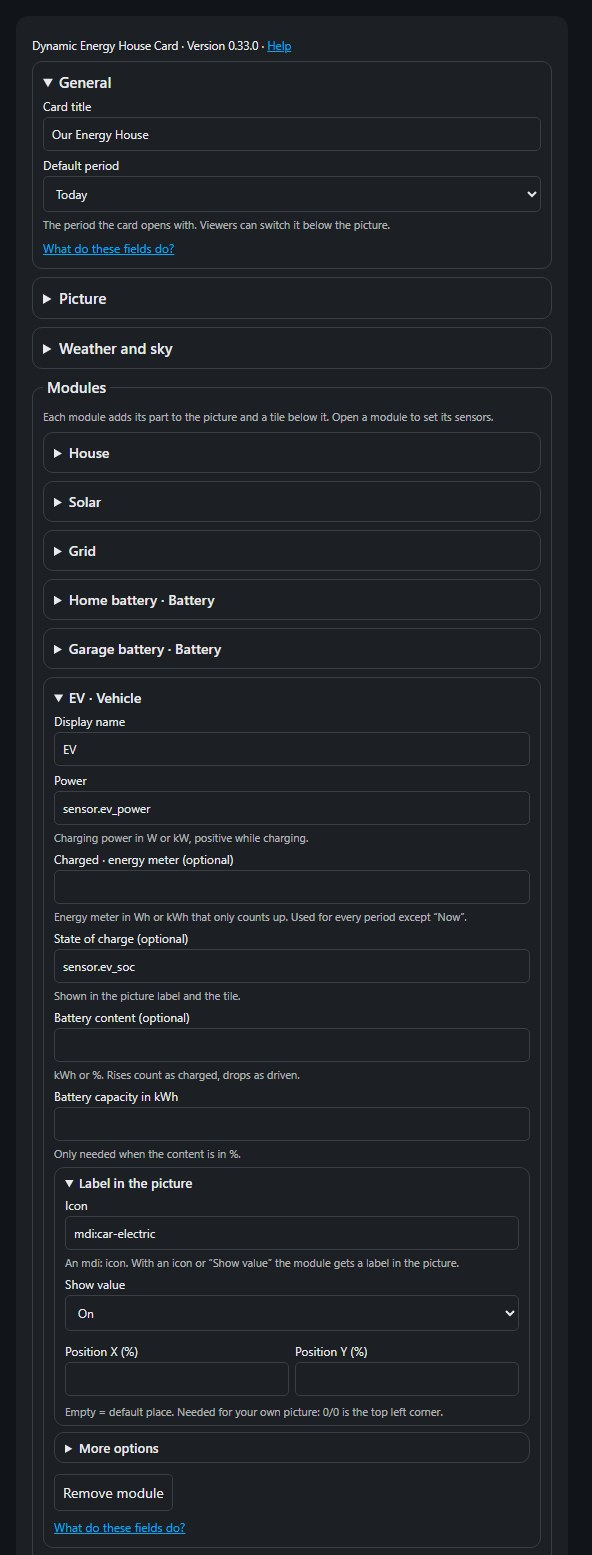
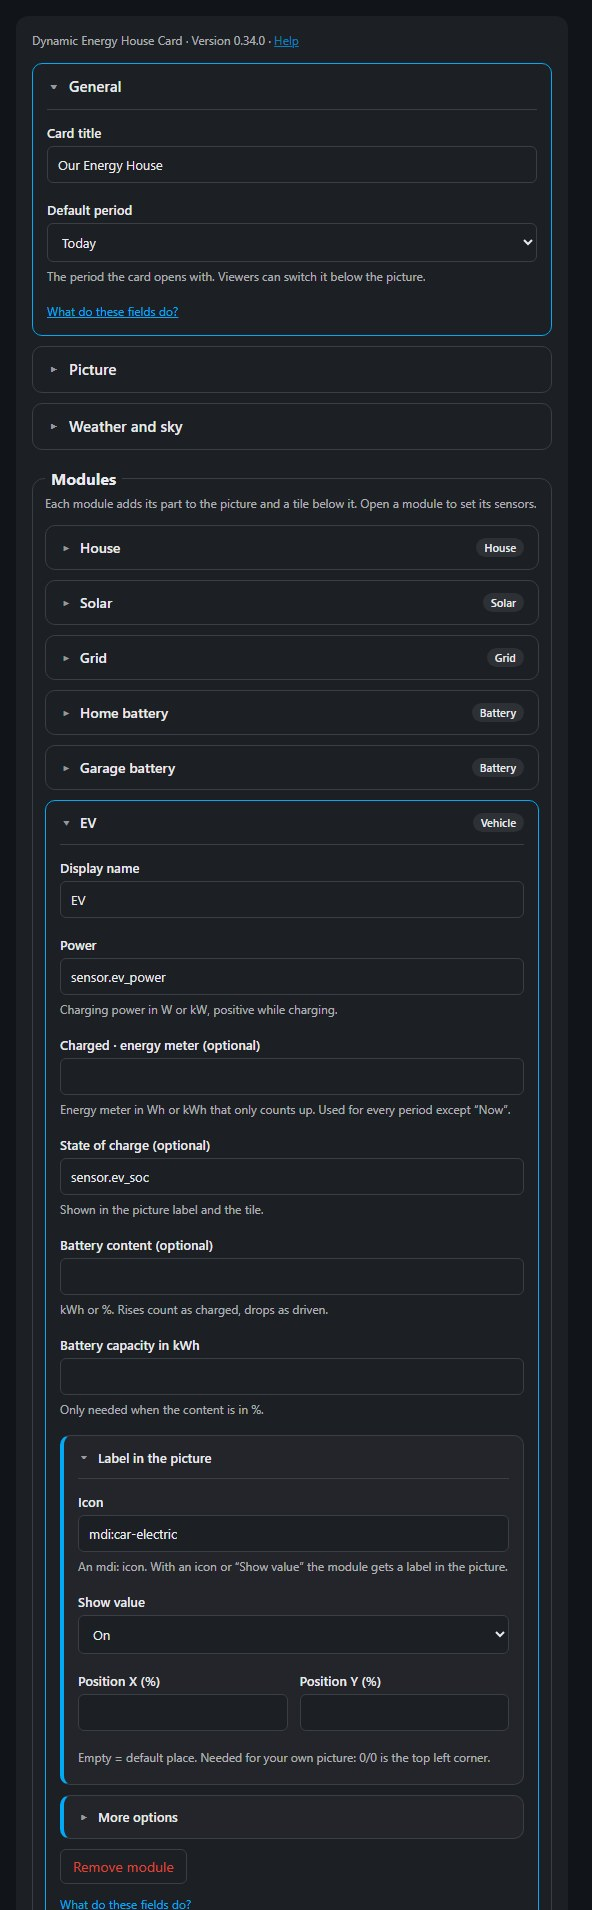
Clearer editor, room label choice, controls below the picture (0.34.0)
- Editor: more space between fields, bold field names, nested boxes
  marked by coloured edges and tints, open module highlighted, module
  type as a badge, remove buttons in red
- Rooms: one "Show in the picture" choice (nothing, room name, values,
  both) instead of icon, show value and room name
- Controls of a tapped module appear directly below the picture
  instead of at the bottom of the card

Claude-Session: https://claude.ai/code/session_016kjt6bPp7oqnfqhW3oJgZ4

diff --git a/dist/dynamic-energy-house-card.js b/dist/dynamic-energy-house-card.js
@@ -1,5 +1,5 @@
 // Energy House Card · native Home Assistant dashboard component
-const ENERGY_HOUSE_VERSION = "0.33.0";
+const ENERGY_HOUSE_VERSION = "0.34.0";
 const DOCS_URL = "https://github.com/pfalzcraft/dynamic-energy-house-card";
 const TYPES = {house:"House",grid:"Grid",pv:"Solar",battery:"Battery",ev:"Vehicle",water:"Water",room:"Room",climate:"Grid CO₂",device:"Device"};
 const COLORS = {house:"#f4bd86",grid:"#a7bbf0",pv:"#f2ce72",battery:"#80dbc2",ev:"#86cfef",water:"#93d3f5",room:"#d9c6aa",climate:"#c1d2b1",device:"#e7a9d6"};
@@ -317,8 +317,8 @@ function photoScene(c,states,history={},previousLevels={}){
       return hit(n,`<path d="M${x} ${y}v-8" stroke="white"/>`+rows.map(([k,v],i)=>`<foreignObject x="${left}" y="${top+i*34}" width="${width}" height="32"><div xmlns="http://www.w3.org/1999/xhtml" class="pinlabel" title="${k==="import"?"Import":"Export"}">${icon(k)}<span>${esc(v)}</span></div></foreignObject>`).join(""));
     }
     // Room: one row per entity, stacked; a tap on a row opens that entity's HA dialog.
-    if(n.kind==="room"&&labelled(n)&&roomEntities(n).length){
-      const ids=[n.entity,...roomEntities(n)].filter(Boolean);
+    if(n.kind==="room"&&(labelled(n)&&roomEntities(n).length||n.showRoomName==="yes")){
+      const ids=labelled(n)?[n.entity,...roomEntities(n)].filter(Boolean):[];
       const rows=ids.map(id=>{const name=entityName(n,id,states),v=id===n.entity?reading(states[id]):roomSummary({kind:"room",entities:[id]},states);
         // Without a choice the name is shown when the room has several entities.
         return [id,name,(n.showNames?.[id]??ids.length>1)?`${n.names?.[id]?name:name.slice(0,16)} ${v}`:v];});
@@ -550,7 +550,7 @@ function primaryValue(n,s,history){
 }
 
 const css=`
-.metrics{display:flex;flex-wrap:wrap;padding:12px 9px;gap:6px;background:transparent}.metric{flex:1 1 82px;min-width:0;background:transparent;border:0;text-align:left;padding:4px 7px;color:var(--primary-text-color,#f3eee4)}.metric span,.metric small{display:block;font-size:12px;color:var(--secondary-text-color,#b6c7d9)}.metric{container-type:inline-size}.metric strong{display:block;font-weight:600;font-size:clamp(14px,15cqi,26px);line-height:1.4;white-space:nowrap}.metric small b{white-space:nowrap}.bp text{fill:#8feaff;stroke:none;font:600 11px ui-monospace,monospace;letter-spacing:1.5px}.sim{display:flex;flex-wrap:wrap;gap:4px;padding:8px 12px;align-items:center;font-size:12px;color:var(--secondary-text-color,#b6c7d9)}.sim button{background:var(--secondary-background-color,#213245);border:1px solid var(--divider-color,#526579);border-radius:6px;padding:4px 8px;font-size:12px}.sim button[aria-pressed=true]{background:var(--primary-color,#d3eaf3);color:var(--text-primary-color,#142637)}.expand{width:100%;text-align:left;background:var(--secondary-background-color,#213245);border:0;padding:12px 18px;color:var(--primary-text-color,#f3eee4)}.architecture{background:transparent}.photo-pulse{animation:photoflow 1.3s linear infinite}@keyframes photoflow{to{stroke-dashoffset:-35}}:host{display:block;font-family:var(--primary-font-family,inherit)}ha-card{display:block;background:var(--ha-card-background,var(--card-background-color,#142235));color:var(--primary-text-color,#f3eee4);border-radius:var(--ha-card-border-radius,20px);overflow:hidden}header{padding:17px 18px 13px;display:flex;align-items:center;justify-content:space-between;gap:10px}h2{font-family:var(--ha-card-header-font-family,inherit);font-size:var(--ha-card-header-font-size,24px);font-weight:400;line-height:1.2;margin:0}small{color:var(--secondary-text-color,#b6c7d9);font-size:12px}svg{width:100%;display:block}svg text{fill:#342f28;font:11px system-ui}button{font:inherit;color:inherit;cursor:pointer}.hit{cursor:pointer}.hit:hover,.hit:focus{filter:brightness(1.15)}.fall,.cloud{pointer-events:none}.pulse{animation:dash 1.6s linear infinite}@keyframes dash{to{stroke-dashoffset:-37}}.fall{animation:fall 1.3s linear infinite}.cloud{animation:cloud 16s ease-in-out alternate infinite}@keyframes fall{to{transform:translate(-7px,22px)}}@keyframes cloud{to{transform:translateX(24px)}}.fx-drift{animation:fxdrift linear infinite}@keyframes fxdrift{from{transform:translateX(-320px)}to{transform:translateX(1000px)}}.fx-tile{animation:fxtile linear infinite}@keyframes fxtile{from{transform:translate(0,0)}to{transform:translate(var(--dx),var(--dy))}}.fx-twinkle{animation:fxtwinkle 4s ease-in-out infinite alternate}@keyframes fxtwinkle{to{opacity:.25}}.fx-fog{animation:fxfog 22s ease-in-out infinite alternate}@keyframes fxfog{to{transform:translateX(90px)}}.fx-flash{opacity:0;animation:fxflash 9s linear infinite}.fx-gust{animation:fxgust 1s linear infinite}@keyframes fxgust{from{transform:translateX(-160px)}to{transform:translateX(1060px)}}.fx-leaf{transform-box:fill-box;transform-origin:center;animation:fxleaf 2s linear infinite}@keyframes fxleaf{from{transform:translate(-40px,0) rotate(0)}50%{transform:translate(450px,-40px) rotate(400deg)}to{transform:translate(940px,30px) rotate(800deg)}}@keyframes fxflash{0%,92%,100%{opacity:0}93%{opacity:.75}94%{opacity:.1}95.5%{opacity:.55}97%{opacity:0}}.tiles{display:grid;grid-template-columns:repeat(auto-fit,minmax(min(145px,100%),1fr));gap:1px;background:var(--divider-color,#526579)}.tile{background:var(--secondary-background-color,#213245);text-align:left;border:0;padding:13px 14px;min-width:0}.name{display:flex;align-items:center;gap:7px;color:var(--secondary-text-color,#b6c7d9);font-size:12px;overflow-wrap:anywhere}.value{display:block;font-weight:600;margin-top:6px;font-size:14px}.info small{display:block}.info{font-size:12px;color:var(--secondary-text-color,#b6c7d9)}.sensors{padding:10px 16px;display:grid;gap:2px}.sensors .expand{padding-left:0}.sorts{display:flex;flex-wrap:wrap;gap:6px;margin:4px 0 6px}.sorts button{background:var(--secondary-background-color,#213245);color:var(--primary-text-color,#f3eee4);border:0;border-radius:12px;padding:3px 10px;font:inherit;font-size:12px;cursor:pointer}.sorts [aria-pressed=true]{background:var(--primary-color,#03a9f4);color:var(--text-primary-color,#fff)}.sensor.raised b,.sensor.raised span{color:var(--warning-color,#ffa600)}.sensor.high b,.sensor.high span{color:var(--error-color,#db4437)}.sensor{display:flex;align-items:center;border-bottom:1px solid var(--divider-color,#ffffff1f)}.sensor button{display:flex;justify-content:space-between;gap:12px;flex:1;background:none;border:0;padding:5px 0;color:var(--primary-text-color,#f3eee4);font:inherit;font-size:13px;text-align:left;cursor:pointer}.sensor .hide{flex:0 0 32px;justify-content:center;color:var(--secondary-text-color,#b6c7d9)}.sensor.off{opacity:.5}.checksum{margin:0 16px 12px;padding:10px 12px;border-radius:8px;background:var(--secondary-background-color,#213245);font-size:13px}.checksum small{display:block;color:var(--secondary-text-color,#b6c7d9);margin-top:3px}.checksum.good b{color:var(--success-color,#43a047)}.checksum.raised b{color:var(--warning-color,#ffa600)}.checksum.high b{color:var(--error-color,#db4437)}.sensor i{color:var(--secondary-text-color,#b6c7d9);font-style:normal}.sensor b{white-space:nowrap}.routes{padding:10px 16px;display:grid;gap:5px}.route{display:flex;align-items:center;gap:8px;font-size:13px}.line{display:inline-block;position:relative;width:34px;height:2px;background:#516b63;margin:0 5px}.line.active:after{content:"";position:absolute;background:var(--tone,#82dac0);width:7px;height:3px;animation:travel 1.5s linear infinite}.line.back:after{animation-direction:reverse}@keyframes travel{from{left:0}to{left:27px}}.mode{padding:14px 16px;background:var(--secondary-background-color,#213245)}.mode button{margin:5px 5px 0 0;padding:7px 9px;background:var(--secondary-background-color,#213245);border:1px solid var(--divider-color,#526579);border-radius:8px}.mode button:disabled{opacity:.5}ha-icon{--mdc-icon-size:18px}@media(prefers-reduced-motion:reduce){*,*:after{animation:none!important}}
+.metrics{display:flex;flex-wrap:wrap;padding:12px 9px;gap:6px;background:transparent}.metric{flex:1 1 82px;min-width:0;background:transparent;border:0;text-align:left;padding:4px 7px;color:var(--primary-text-color,#f3eee4)}.metric span,.metric small{display:block;font-size:12px;color:var(--secondary-text-color,#b6c7d9)}.metric{container-type:inline-size}.metric strong{display:block;font-weight:600;font-size:clamp(14px,15cqi,26px);line-height:1.4;white-space:nowrap}.metric small b{white-space:nowrap}.bp text{fill:#8feaff;stroke:none;font:600 11px ui-monospace,monospace;letter-spacing:1.5px}.sim{display:flex;flex-wrap:wrap;gap:4px;padding:8px 12px;align-items:center;font-size:12px;color:var(--secondary-text-color,#b6c7d9)}.sim button{background:var(--secondary-background-color,#213245);border:1px solid var(--divider-color,#526579);border-radius:6px;padding:4px 8px;font-size:12px}.sim button[aria-pressed=true]{background:var(--primary-color,#d3eaf3);color:var(--text-primary-color,#142637)}.expand{width:100%;text-align:left;background:var(--secondary-background-color,#213245);border:0;padding:12px 18px;color:var(--primary-text-color,#f3eee4)}.architecture{background:transparent}.photo-pulse{animation:photoflow 1.3s linear infinite}@keyframes photoflow{to{stroke-dashoffset:-35}}:host{display:block;font-family:var(--primary-font-family,inherit)}ha-card{display:block;background:var(--ha-card-background,var(--card-background-color,#142235));color:var(--primary-text-color,#f3eee4);border-radius:var(--ha-card-border-radius,20px);overflow:hidden}header{padding:17px 18px 13px;display:flex;align-items:center;justify-content:space-between;gap:10px}h2{font-family:var(--ha-card-header-font-family,inherit);font-size:var(--ha-card-header-font-size,24px);font-weight:400;line-height:1.2;margin:0}small{color:var(--secondary-text-color,#b6c7d9);font-size:12px}svg{width:100%;display:block}svg text{fill:#342f28;font:11px system-ui}button{font:inherit;color:inherit;cursor:pointer}.hit{cursor:pointer}.hit:hover,.hit:focus{filter:brightness(1.15)}.fall,.cloud{pointer-events:none}.pulse{animation:dash 1.6s linear infinite}@keyframes dash{to{stroke-dashoffset:-37}}.fall{animation:fall 1.3s linear infinite}.cloud{animation:cloud 16s ease-in-out alternate infinite}@keyframes fall{to{transform:translate(-7px,22px)}}@keyframes cloud{to{transform:translateX(24px)}}.fx-drift{animation:fxdrift linear infinite}@keyframes fxdrift{from{transform:translateX(-320px)}to{transform:translateX(1000px)}}.fx-tile{animation:fxtile linear infinite}@keyframes fxtile{from{transform:translate(0,0)}to{transform:translate(var(--dx),var(--dy))}}.fx-twinkle{animation:fxtwinkle 4s ease-in-out infinite alternate}@keyframes fxtwinkle{to{opacity:.25}}.fx-fog{animation:fxfog 22s ease-in-out infinite alternate}@keyframes fxfog{to{transform:translateX(90px)}}.fx-flash{opacity:0;animation:fxflash 9s linear infinite}.fx-gust{animation:fxgust 1s linear infinite}@keyframes fxgust{from{transform:translateX(-160px)}to{transform:translateX(1060px)}}.fx-leaf{transform-box:fill-box;transform-origin:center;animation:fxleaf 2s linear infinite}@keyframes fxleaf{from{transform:translate(-40px,0) rotate(0)}50%{transform:translate(450px,-40px) rotate(400deg)}to{transform:translate(940px,30px) rotate(800deg)}}@keyframes fxflash{0%,92%,100%{opacity:0}93%{opacity:.75}94%{opacity:.1}95.5%{opacity:.55}97%{opacity:0}}.tiles{display:grid;grid-template-columns:repeat(auto-fit,minmax(min(145px,100%),1fr));gap:1px;background:var(--divider-color,#526579)}.tile{background:var(--secondary-background-color,#213245);text-align:left;border:0;padding:13px 14px;min-width:0}.name{display:flex;align-items:center;gap:7px;color:var(--secondary-text-color,#b6c7d9);font-size:12px;overflow-wrap:anywhere}.value{display:block;font-weight:600;margin-top:6px;font-size:14px}.info small{display:block}.info{font-size:12px;color:var(--secondary-text-color,#b6c7d9)}.sensors{padding:10px 16px;display:grid;gap:2px}.sensors .expand{padding-left:0}.sorts{display:flex;flex-wrap:wrap;gap:6px;margin:4px 0 6px}.sorts button{background:var(--secondary-background-color,#213245);color:var(--primary-text-color,#f3eee4);border:0;border-radius:12px;padding:3px 10px;font:inherit;font-size:12px;cursor:pointer}.sorts [aria-pressed=true]{background:var(--primary-color,#03a9f4);color:var(--text-primary-color,#fff)}.sensor.raised b,.sensor.raised span{color:var(--warning-color,#ffa600)}.sensor.high b,.sensor.high span{color:var(--error-color,#db4437)}.sensor{display:flex;align-items:center;border-bottom:1px solid var(--divider-color,#ffffff1f)}.sensor button{display:flex;justify-content:space-between;gap:12px;flex:1;background:none;border:0;padding:5px 0;color:var(--primary-text-color,#f3eee4);font:inherit;font-size:13px;text-align:left;cursor:pointer}.sensor .hide{flex:0 0 32px;justify-content:center;color:var(--secondary-text-color,#b6c7d9)}.sensor.off{opacity:.5}.checksum{margin:0 16px 12px;padding:10px 12px;border-radius:8px;background:var(--secondary-background-color,#213245);font-size:13px}.checksum small{display:block;color:var(--secondary-text-color,#b6c7d9);margin-top:3px}.checksum.good b{color:var(--success-color,#43a047)}.checksum.raised b{color:var(--warning-color,#ffa600)}.checksum.high b{color:var(--error-color,#db4437)}.sensor i{color:var(--secondary-text-color,#b6c7d9);font-style:normal}.sensor b{white-space:nowrap}.routes{padding:10px 16px;display:grid;gap:5px}.route{display:flex;align-items:center;gap:8px;font-size:13px}.line{display:inline-block;position:relative;width:34px;height:2px;background:#516b63;margin:0 5px}.line.active:after{content:"";position:absolute;background:var(--tone,#82dac0);width:7px;height:3px;animation:travel 1.5s linear infinite}.line.back:after{animation-direction:reverse}@keyframes travel{from{left:0}to{left:27px}}.mode{padding:12px 16px;background:var(--secondary-background-color,#213245);border-top:3px solid var(--primary-color,#03a9f4)}.mode button{margin:5px 5px 0 0;padding:7px 9px;background:var(--secondary-background-color,#213245);border:1px solid var(--divider-color,#526579);border-radius:8px}.mode button:disabled{opacity:.5}ha-icon{--mdc-icon-size:18px}@media(prefers-reduced-motion:reduce){*,*:after{animation:none!important}}
 :host{container-type:inline-size;width:100%;min-width:0}.board{display:grid;min-width:0;background:transparent}.scene-wrap{align-self:center;min-width:0}.zoom-toggle{display:none}.picture{align-self:center;min-width:0}.periods{display:flex;flex-wrap:wrap;gap:4px;padding:12px}.periods button{background:transparent;border:1px solid var(--divider-color,#526579);border-radius:8px;padding:8px 11px;min-height:40px;font-size:14px}.periods button[aria-pressed=true]{background:var(--primary-color,#d3eaf3);color:var(--text-primary-color,#142637)}.range{display:flex;flex-wrap:wrap;gap:8px;width:100%}.range label{display:grid;gap:2px;font-size:12px;color:var(--secondary-text-color,#b6c7d9);flex:1}.range input{background:var(--secondary-background-color,#213245);color:var(--primary-text-color,#f3eee4);border:1px solid var(--divider-color,#526579);border-radius:8px;padding:7px;font:inherit}.metrics{display:grid;grid-template-columns:repeat(2,minmax(0,1fr));padding:4px 12px 12px;gap:6px}.metric{background:var(--secondary-background-color,#213245);border-radius:8px;padding:10px;overflow-wrap:anywhere}.note{display:block;padding:8px 12px}.pinlabel{box-sizing:border-box;width:100%;height:32px;display:flex;align-items:center;justify-content:flex-start;gap:3px;padding:0 6px;color:white;background:#112b3eef;border:1px solid #bdd9e4;border-radius:8px;font:600 16px system-ui}.pinlabel span{overflow:hidden;text-overflow:ellipsis;white-space:nowrap}.pinlabel ha-icon{--mdc-icon-size:21px}
 @container(min-width:840px){.board{grid-template-columns:minmax(0,1fr) clamp(250px,22%,340px);min-height:calc(100svh - 190px)}aside{border-left:1px solid var(--divider-color,#526579);align-content:center}.picture svg{max-height:calc(100svh - 140px)}}
 @container(max-width:839px){.zoom-toggle{display:block;width:100%;min-height:36px;border:0;background:var(--secondary-background-color,#213245);color:var(--primary-text-color,#f3eee4)}.picture{overflow-x:auto}.picture.zoom svg{width:max(100%,740px);max-width:none}.metrics{grid-template-columns:repeat(auto-fit,minmax(min(145px,100%),1fr))}.board{align-content:start}.periods{justify-content:space-between}.periods button{flex:1;min-height:44px}.metric{min-height:80px}}
@@ -688,7 +688,9 @@ class EnergyHouse extends HTMLElement{
     // live layer is rebuilt, unless the scene itself changed (season, weather, modules).
     const picture=c.view==="diagram"?scene(c,s):photoScene(...this.simulate({...c,geo:[this.h.config?.latitude,this.h.config?.longitude]},s),history,this.previousLevels);
     const [head,rest=""]=picture.split("<!--dyn-->"),[dyn="",tail=""]=rest.split("<!--/dyn-->"),frame=head+tail;
-    const parts={head:`<h2>${esc(c.title)}</h2><small>${esc(weatherLine(c,s))}</small>`,tools:`${this.simButtons()}<button class="zoom-toggle" data-zoom aria-pressed="${!!this.zoom}">${this.zoom?"Whole house":"Zoom in"}</button>`,aside:`<nav class="periods" aria-label="Energy period">${periods}</nav><div class="metrics">${metric}</div>${this.statError?"<small class='note'>Statistics could not be loaded.</small>":""}`,below:`<button class="expand" data-expand aria-expanded="${!!this.expanded}">Devices and readings (${periodNames[period]}) ${this.expanded?"▴":"▾"}</button>${this.expanded?`<div class="tiles">${tiles}</div>${sensorList}${sensors.open?checkSum(sensors.sum,houseW):""}`:""}${routes?`<div class="routes">${routes}</div>`:""}${selected?`<section class="mode"><b>${esc(selected.name)}</b><div><button data-close>Close</button>${infoEntity(selected)?`<button data-info>More info</button>`:""}${selected.control?`<button data-control>Open control</button>`:""}${opts.map(o=>`<button data-option="${esc(o)}" ${o===control.state||this.busy?"disabled":""}>${esc(o)}</button>`).join("")}${roomButtons(selected,s,this.busy)}</div><small role="status">${esc(this.message||"")}</small></section>`:""}`};
+    // Controls of the tapped module sit right below the picture, where the tap happened.
+    const mode=selected?`<section class="mode"><b>${esc(selected.name)}</b><div><button data-close>Close</button>${infoEntity(selected)?`<button data-info>More info</button>`:""}${selected.control?`<button data-control>Open control</button>`:""}${opts.map(o=>`<button data-option="${esc(o)}" ${o===control.state||this.busy?"disabled":""}>${esc(o)}</button>`).join("")}${roomButtons(selected,s,this.busy)}</div><small role="status">${esc(this.message||"")}</small></section>`:"";
+    const parts={head:`<h2>${esc(c.title)}</h2><small>${esc(weatherLine(c,s))}</small>`,tools:`${mode}${this.simButtons()}<button class="zoom-toggle" data-zoom aria-pressed="${!!this.zoom}">${this.zoom?"Whole house":"Zoom in"}</button>`,aside:`<nav class="periods" aria-label="Energy period">${periods}</nav><div class="metrics">${metric}</div>${this.statError?"<small class='note'>Statistics could not be loaded.</small>":""}`,below:`<button class="expand" data-expand aria-expanded="${!!this.expanded}">Devices and readings (${periodNames[period]}) ${this.expanded?"▴":"▾"}</button>${this.expanded?`<div class="tiles">${tiles}</div>${sensorList}${sensors.open?checkSum(sensors.sum,houseW):""}`:""}${routes?`<div class="routes">${routes}</div>`:""}`};
     const pictureClass=`picture ${this.zoom?"zoom":""}`;
     if(!this.root.querySelector?.('[data-part="aside"]')){
       this.root.innerHTML=`<style>${css}</style><ha-card><header data-part="head">${parts.head}</header><div class="board"><div class="scene-wrap"><div class="${pictureClass}">${picture}</div><div data-part="tools">${parts.tools}</div></div><aside data-part="aside">${parts.aside}</aside></div><div data-part="below">${parts.below}</div></ha-card>`;
@@ -747,7 +749,7 @@ class EnergyHouse extends HTMLElement{
   }
 }
 const editorCss=`
-:host{display:block;color:var(--primary-text-color,#243830);font:14px system-ui}fieldset,details{border:1px solid var(--divider-color,#b2c3b9);border-radius:10px;margin:8px 0;padding:10px}summary{cursor:pointer;font-weight:600}label{display:grid;align-content:start;gap:3px;font-size:12px;margin:6px 0}.entity{border-top:1px solid var(--divider-color,#b2c3b9);margin-top:8px;padding-top:4px}input,select,button{font:inherit;color:inherit;background:var(--card-background-color,#fff);padding:8px;border-radius:5px;border:1px solid var(--divider-color,#a7b5ac);max-width:100%;box-sizing:border-box}button{cursor:pointer;margin:5px 4px 0 0}.pair{display:grid;grid-template-columns:repeat(auto-fit,minmax(135px,1fr));gap:6px}.pair>label{min-width:0}.pair>button{align-self:end;margin:0 0 6px}label>input,label>select{width:100%}input[type=color]{height:40px;padding:3px}small{display:block;margin:5px 0}.hint{opacity:.72;font-size:11px;margin:2px 0 0}details.section>summary{font-size:15px}details.sub{padding:6px 10px;margin:6px 0}details.sub>summary{font-weight:500;font-size:13px}legend{font-weight:600;font-size:15px;padding:0 4px}a{color:var(--primary-color,#03a9f4)}a.help{display:block;font-size:12px;margin:8px 0 2px}`;
+:host{display:block;color:var(--primary-text-color,#243830);font:14px system-ui;--line:var(--divider-color,#b2c3b9)}fieldset{border:1px solid var(--line);border-radius:12px;margin:18px 0;padding:6px 12px 12px}legend{font-weight:700;font-size:16px;padding:0 6px}details{border:1px solid var(--line);border-radius:10px;margin:10px 0;padding:0 14px;background:var(--card-background-color,transparent)}details[open]{padding-bottom:4px}summary{cursor:pointer;font-weight:600;padding:12px 0;display:flex;align-items:center;gap:8px}summary::before{content:'▸';opacity:.6}details[open]>summary::before{content:'▾'}summary::-webkit-details-marker{display:none}details[open]>summary{border-bottom:1px solid var(--line);margin-bottom:14px}details.section>summary{font-size:15px}fieldset>details[open],details.section[open]{border-color:var(--primary-color,#03a9f4)}details details{border-left:4px solid var(--primary-color,#03a9f4);background:rgba(127,127,127,.07)}details details>summary{font-size:13px}details details details{border-left-color:var(--accent-color,#ff9800);background:rgba(127,127,127,.1)}.kind{margin-left:auto;font-size:11px;font-weight:500;padding:2px 8px;border-radius:10px;background:rgba(127,127,127,.18)}label{display:grid;align-content:start;gap:5px;font-size:13px;font-weight:500;margin:0 0 18px}input,select,button{font:inherit;font-weight:400;color:inherit;background:var(--card-background-color,#fff);padding:9px 10px;border-radius:6px;border:1px solid var(--line);max-width:100%;box-sizing:border-box}label>input,label>select{width:100%}input[type=color]{height:40px;padding:3px}button{cursor:pointer;padding:7px 12px;margin:0 6px 12px 0}button[data-delete],button[data-delroute],button[data-delent],button[data-delpt]{color:var(--error-color,#db4437);background:transparent}.pair{display:grid;grid-template-columns:repeat(auto-fit,minmax(135px,1fr));gap:12px}.pair>label{min-width:0}.pair>button{align-self:end;margin:0 0 18px}.entity{border:1px solid var(--line);border-radius:8px;padding:12px 12px 0;margin:0 0 12px;background:rgba(127,127,127,.06)}small{display:block;margin:0 0 14px;font-size:12px;line-height:1.4}.hint{opacity:.7;font-weight:400}label>.hint{margin:1px 0 0}a{color:var(--primary-color,#03a9f4)}a.help{display:block;font-size:12px;margin:0 0 12px}.version{opacity:.7}`;
 class HouseEditor extends HTMLElement{
   constructor(){super();this.root=this.attachShadow({mode:"open"});this.root.addEventListener("change",e=>this.change(e));this.root.addEventListener("click",e=>this.click(e));this.open=new Set(["general"]);}
   setConfig(c){if(JSON.stringify(this.c)===JSON.stringify(c))return;this.c=structuredClone({...stub(),...c});this.draw()}
@@ -760,7 +762,7 @@ class HouseEditor extends HTMLElement{
     const field=(label,key,val,list="",help="")=>`<label>${label}<input data-key="${key}" value="${esc(val)}" ${list?`list="${esc(list)}"`:""}>${help?hint(help):""}</label>`;
     const choose=(label,key,val,choices,help="")=>`<label>${label}<select data-key="${key}">${choices.map(([v,l])=>`<option value="${esc(v)}" ${v===val?"selected":""}>${esc(l)}</option>`).join("")}</select>${help?hint(help):""}</label>`;
     const list=(id,values)=>`<datalist id="${esc(id)}">${values.map(v=>`<option value="${esc(v)}"></option>`).join("")}</datalist>`;
-    const details=(key,title,content,attr="",sub=false)=>`<details data-key="${esc(key)}" ${sub?'class="sub"':""} ${attr} ${this.open.has(key)?"open":""}><summary>${esc(title)}</summary>${content}</details>`;
+    const details=(key,title,content,attr="",sub=false,badge="")=>`<details data-key="${esc(key)}" ${sub?'class="sub"':""} ${attr} ${this.open.has(key)?"open":""}><summary>${esc(title)}${badge?`<span class="kind">${esc(badge)}</span>`:""}</summary>${content}</details>`;
     const section=(key,title,content)=>details(key,title,content,'class="section"');
     const helpLink=anchor=>`<a class="help" href="${DOCS_URL}#${anchor}" target="_blank" rel="noreferrer">What do these fields do?</a>`;
     const states=Object.keys(h.states);
@@ -775,8 +777,7 @@ class HouseEditor extends HTMLElement{
         n.kind==="battery"?field("State of charge","soc",n.soc,lid+"pct","Sensor in %.")+meter("Charged · energy meter","charged")+meter("Discharged · energy meter","discharged")+hint("Live charging power comes from the routes that start or end at this battery.")+pct+kwh:
         n.kind==="climate"?field("Fossil share of grid power","entity",n.entity,lid+"pct","Sensor in % from the “Electricity Maps” integration (as in the HA energy dashboard).")+field("CO₂ intensity (optional)","co2",n.co2,lid,"Shown as an extra line in the tile.")+hint("Shows how much of the house consumption was low-carbon. Needs the import meter on the grid module.")+pct+list(lid,ids):
         n.kind==="room"?choose("Floor","floor",n.floor||"EG",[["UG","Basement"],["EG","Ground floor"],["OG","Upper floor"],["DG","Attic"],...(n.floor&&!["UG","EG","OG","DG"].includes(n.floor)?[[n.floor,n.floor]]:[])],"Places the room in the picture and in the schematic floor plan.")+
-          choose("Room name in the label","showRoomName",n.showRoomName||"no",[["no","Off"],["yes","On"]],"Adds the display name as the first row of the room label.")+
-          (n.entities||[]).map((id,j)=>`<div class="entity"><label>Entity or group ${j+1}<input data-ent="${j}" value="${esc(id)}" list="${lid}room"></label><div class="pair"><label>Name in the label<input data-entname="${j}" value="${esc(n.names?.[id]||"")}" placeholder="${esc(h.states[id]?.attributes.friendly_name||"")}"></label><label>Show name<select data-entshow="${j}">${[["","Automatic"],["yes","On"],["no","Off"]].map(([v,l])=>`<option value="${v}" ${(n.showNames?.[id]===true?"yes":n.showNames?.[id]===false?"no":"")===v?"selected":""}>${l}</option>`).join("")}</select></label></div><button data-delent="${j}">Remove entity</button></div>`).join("")+
+                    (n.entities||[]).map((id,j)=>`<div class="entity"><label>Entity or group ${j+1}<input data-ent="${j}" value="${esc(id)}" list="${lid}room"></label><div class="pair"><label>Name in the label<input data-entname="${j}" value="${esc(n.names?.[id]||"")}" placeholder="${esc(h.states[id]?.attributes.friendly_name||"")}"></label><label>Show name<select data-entshow="${j}">${[["","Automatic"],["yes","On"],["no","Off"]].map(([v,l])=>`<option value="${v}" ${(n.showNames?.[id]===true?"yes":n.showNames?.[id]===false?"no":"")===v?"selected":""}>${l}</option>`).join("")}</select></label></div><button data-delent="${j}">Remove entity</button></div>`).join("")+
           '<button data-addent>+ Entity</button>'+hint("Lights, covers, switches, climate or sensors, or groups of them. The label shows lights on, average cover position and temperatures. An empty name uses the HA name; “Automatic” shows names when the room has several entities.")+
           list(lid+"room",states.filter(id=>/^(light|cover|group|switch|fan|climate|sensor|input_boolean)\./.test(id))):
         n.kind==="water"?field("Water meter or flow sensor","entity",n.entity,lid,"A meter (m³ or L, counting up) gives the consumption per period, a flow sensor the current flow.")+list(lid,ids)+
@@ -786,15 +787,17 @@ class HouseEditor extends HTMLElement{
           (n.kind==="grid"?meter("Export · energy meter","exported"):"")+
           (n.kind==="ev"?field("State of charge (optional)","soc",n.soc,lid,"Shown in the picture label and the tile.")+field("Battery content (optional)","content",n.content,lid,"kWh or %. Rises count as charged, drops as driven.")+field("Battery capacity in kWh","capacity",n.capacity,"","Only needed when the content is in %."):"")+
           (n.kind==="device"?choose("Show in the picture","scene",n.scene||"",[["","Label only"],["heatpump","Heat pump"],["washer","Washing machine (basement)"],["dryer","Dryer (basement)"]],"Draws the device in the 3D house with basement.")+hint("Devices are part of the house consumption and are not used to calculate it."):"")+kwh;
-      const label=field("Icon","icon",n.icon,"pinIcons","An mdi: icon. With an icon or “Show value” the module gets a label in the picture.")+
-        choose("Show value","showState",n.showState??(n.pinText||n.showName==="yes"?"yes":"no"),[["no","Off"],["yes","On"]])+
+      const values=!!(n.icon||n.showState==="yes"||(n.showState==null&&(n.pinText||n.showName==="yes"))),roomName=n.showRoomName==="yes";
+      const label=(n.kind==="room"?choose("Show in the picture","roomLabel",values&&roomName?"both":values?"values":roomName?"name":"none",[["none","Nothing"],["name","Room name"],["values","Values"],["both","Room name and values"]],"Values are one row per entity: lights on, cover position, temperature."):
+        field("Icon","icon",n.icon,"pinIcons","An mdi: icon. With an icon or “Show value” the module gets a label in the picture.")+
+        choose("Show value","showState",n.showState??(n.pinText||n.showName==="yes"?"yes":"no"),[["no","Off"],["yes","On"]]))+
         '<div class="pair">'+field("Position X (%)","x",n.x)+field("Position Y (%)","y",n.y)+"</div>"+hint("Empty = default place. Needed for your own picture: 0/0 is the top left corner.");
       const advanced=(electric?choose("Sign","invert",n.invert?"yes":"no",[["no","As measured"],["yes","Invert"]],"Use “Invert” when your sensor reports the opposite direction."):"")+
         field("Control entity (optional)","control",n.control,"controls","A select, input_select, switch, script or button. Its options appear in the tile; select options are sent only after a second tap.");
       const html=field("Display name","name",n.name)+readings+
         details(n.id+":label","Label in the picture",label,"",true)+details(n.id+":more","More options",advanced,"",true)+
         '<button data-delete>Remove module</button>'+helpLink(TYPES[n.kind].toLowerCase().replace("₂","2").replace(/ /g,"-")+"-module");
-      return details(n.id,!n.name||n.name===TYPES[n.kind]?TYPES[n.kind]:n.name+" · "+TYPES[n.kind],html,`data-index="${i}"`);
+      return details(n.id,n.name||TYPES[n.kind],html,`data-index="${i}"`,false,TYPES[n.kind]);
     }).join("");
     const names=c.nodes.map(n=>[n.id,n.name||TYPES[n.kind]]);
     const routes=c.routes.map((r,i)=>details("r"+i,`Route ${i+1}: ${names.find(([id])=>id===r.from)?.[1]||"?"} → ${names.find(([id])=>id===r.to)?.[1]||"?"}`,
@@ -807,7 +810,7 @@ class HouseEditor extends HTMLElement{
       '<div class="pair">'+colors(r)+"</div>"+'<button data-delroute>Remove route</button>',`data-route="${i}"`)).join("");
     const look=c.view==="diagram"?"diagram":c.look||"cellar";
     this.root.innerHTML=`<style>${editorCss}</style>
-<small>Dynamic Energy House Card · Version ${ENERGY_HOUSE_VERSION} · <a href="${DOCS_URL}#configuration-reference" target="_blank" rel="noreferrer">Help</a></small>
+<small class="version">Dynamic Energy House Card · Version ${ENERGY_HOUSE_VERSION} · <a href="${DOCS_URL}#configuration-reference" target="_blank" rel="noreferrer">Help</a></small>
 ${section("general","General",field("Card title","title",c.title)+choose("Default period","period",c.period||"day",Object.entries(periodNames).filter(([id])=>id!=="custom"),"The period the card opens with. Viewers can switch it below the picture.")+helpLink("card-options"),true)}
 ${section("picture","Picture",choose("Picture style","look",look,[["cellar","3D · house with basement"],["photo","3D rendering"],["blueprint","Blueprint · gable roof"],["flat","Blueprint · flat roof"],["diagram","Schematic floor plan"],["custom","Own picture"]],"The 3D house with basement changes with the seasons and shows heat pump, washer and dryer. The floor plan arranges the rooms by floor.")+
   (look==="custom"?field("Picture URL","image",c.image,"","e.g. /local/house.webp in 3:2 format. Place modules with Position X/Y."):"")+
@@ -831,6 +834,7 @@ ${list("energyIds",states.filter(id=>["Wh","kWh","MWh"].includes(h.states[id].at
     if(!k)return;
     const item=t.closest("[data-index]"),route=t.closest("[data-route]");
     const obj=item?this.c.nodes[+item.dataset.index]:route?this.c.routes[+route.dataset.route]:this.c;
+    if(k==="roomLabel"){const v=t.value;obj.showState=v==="values"||v==="both"?"yes":"no";if(v==="name"||v==="both")obj.showRoomName="yes";else delete obj.showRoomName;delete obj.icon;delete obj.pinText;delete obj.showName;this.save();return;}
     if(k==="look"&&obj===this.c){if(t.value==="diagram")obj.view="diagram";else{delete obj.view;obj.look=t.value}this.save();return;}
     obj[k]=k==="invert"?t.value==="yes":t.value.trim();this.save();}
   click(e){const t=e.target;if(!t.matches("button"))return;

diff --git a/README.md b/README.md
@@ -174,7 +174,7 @@ Any number, e.g. heat pump, washer, dryer, fridge or office. Devices are part of
 | Field | YAML | What it does |
 |---|---|---|
 | Floor | `floor` | `UG` basement, `EG` ground floor, `OG` upper floor, `DG` attic. Places the room in the picture and the floor plan. |
-| Room name in the label | `showRoomName` | `yes` adds the display name as the first row of the room label. |
+| **Label in the picture** → Show in the picture | `showState`, `showRoomName` | Nothing, room name, values, or room name and values. Values are one row per entity. Rooms have no icon. |
 | Entity or group | `entities` | Lights, covers, switches, climate or sensors, or groups of them. Each gets a row in the label (lights on, average cover position, temperature). Tap a row to open its HA dialog; tap the room dot to switch its lights and covers. |
 | Name in the label | `names` | Own short name per entity, e.g. `names: {light.living_group: Ceiling}`. Empty = the HA name. |
 | Show name | `showNames` | Per entity `true` or `false`. Without a choice names are shown when the room has several entities. |
@@ -207,7 +207,7 @@ Routes run at right angles: vertically out of the module, horizontally at the he
 
 Choose Now, Today, Week, Month, Year or Range below the picture. “Now” shows momentary power; every other period shows the energy from the energy meters, including the running hour. Range offers From/To dates (whole days in the HA time zone); the default is the last seven days.
 
-Tap a module to open its HA dialog. Background, tiles, buttons and text follow your HA theme (light or dark); only the value labels in the picture stay dark so they remain readable on the photo. Animations respect reduced motion.
+Tap a module to open its HA dialog, or, for rooms and modules with a control entity, its controls directly below the picture. Background, tiles, buttons and text follow your HA theme (light or dark); only the value labels in the picture stay dark so they remain readable on the photo. Animations respect reduced motion.
 
 ## Repository
 
